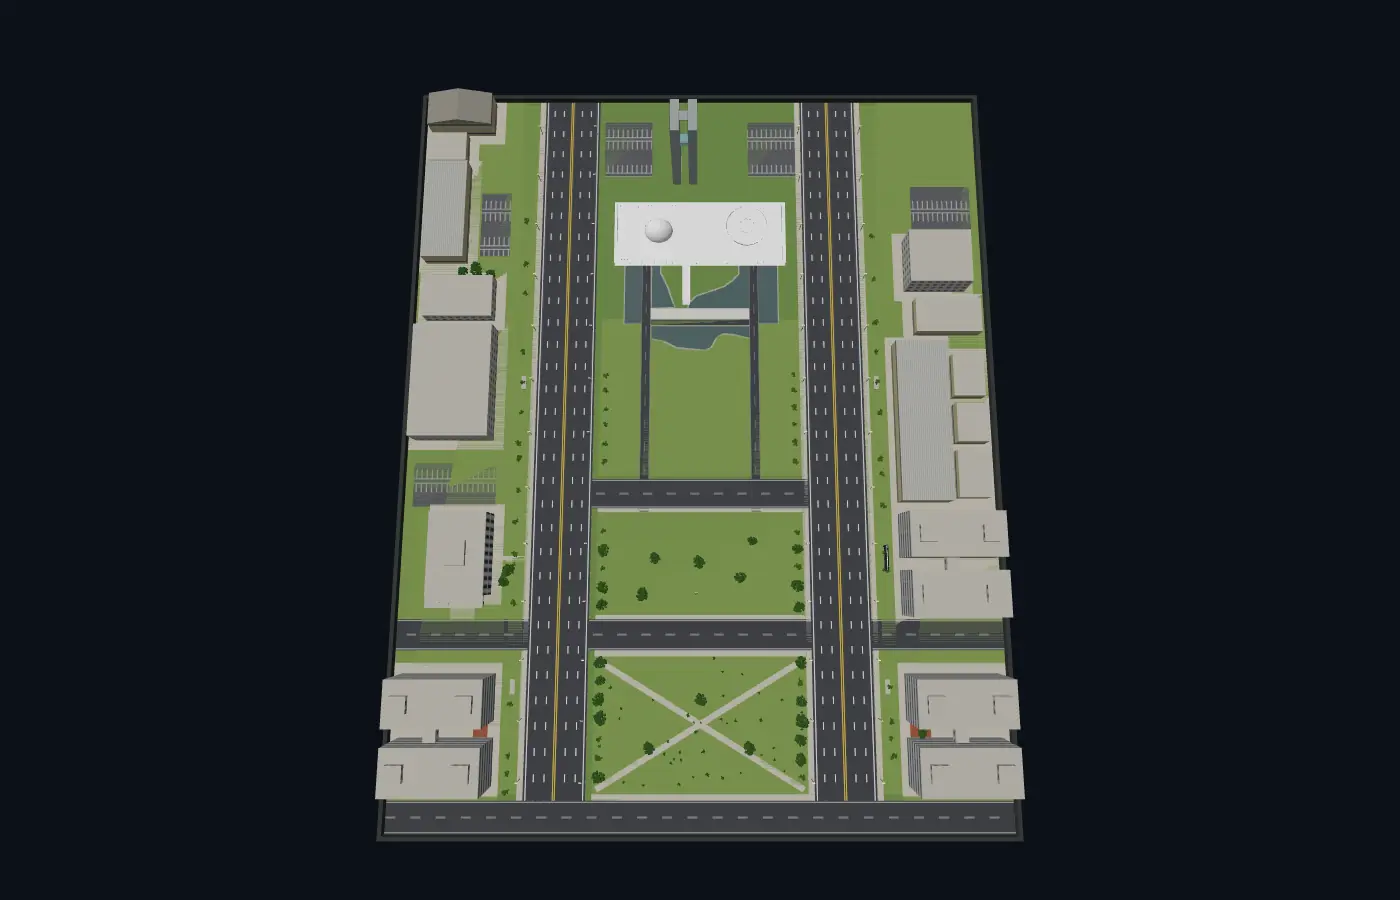
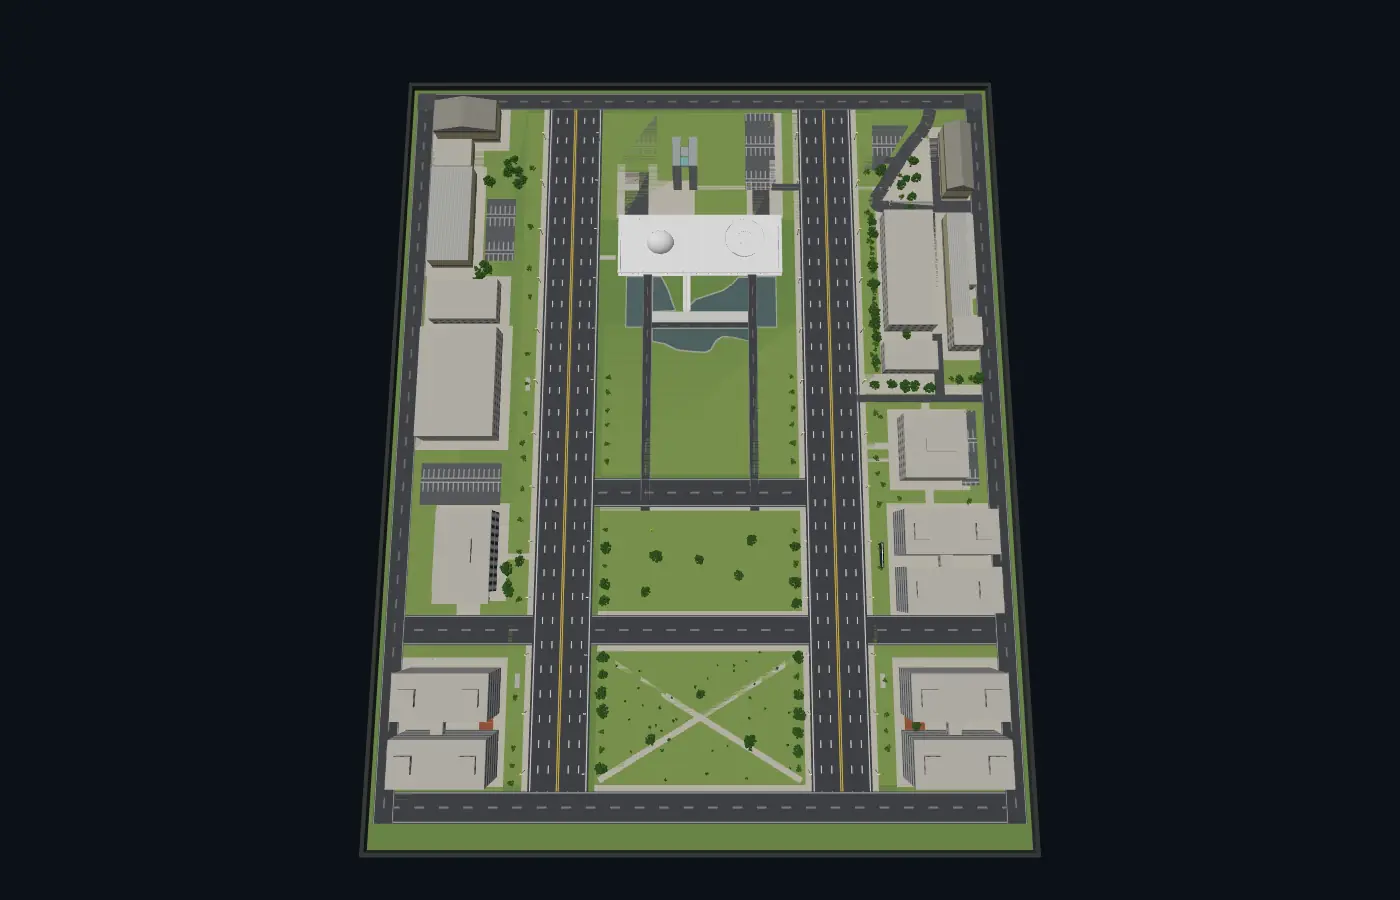
Esplanada: rua perimetral em volta do mapa ligando as ruas sem saída
Claude-Session: https://claude.ai/code/session_01RT3XWXPgV7JXuhkqbgCwHv

Changed region(s): [[0.2457, 0.0933, 0.7679, 0.9644]]

diff --git a/src/game/esplanada.ts b/src/game/esplanada.ts
@@ -9,17 +9,24 @@ import { HEIGHT, makeTrees, type Species, type TreeSpec } from './trees';
 // Eixo no sentido norte (+z): o Congresso fica no fim do eixo, de frente para o sul. Duas avenidas (Eixo Monumental) ladeiam o gramado
 // central e, fora delas, as duas fileiras de ministérios. Sem carros: só aparecem os chamados na Garagem.
 
-const HX = 150; // meio-largura do mapa (m)
-const HZ = 190; // meio-comprimento
-const AV_L: Rect = { x0: -85, x1: -55, z0: -175, z1: HZ }; // avenida oeste (3 faixas para cada lado)
-const AV_R: Rect = { x0: 55, x1: 85, z0: -175, z1: HZ };
-const PERIM_S: Rect = { x0: -HX, x1: HX, z0: -HZ, z1: -175 }; // rua do fim sul, liga as duas avenidas
+const IX = 150; // meio-largura da área interna (m); em volta dela há a rua perimetral de 10 m e 2 m de grama até o muro
+const IZ = 190; // meio-comprimento da área interna
+const HX = 162; // meio-largura do mapa (até o muro)
+const HZ = 202; // meio-comprimento do mapa
+const RING_W = 10; // largura da rua perimetral
+const AV_L: Rect = { x0: -85, x1: -55, z0: -175, z1: IZ }; // avenida oeste (3 faixas para cada lado)
+const AV_R: Rect = { x0: 55, x1: 85, z0: -175, z1: IZ };
+const PERIM_S: Rect = { x0: -IX - RING_W, x1: IX + RING_W, z0: -IZ, z1: -175 }; // rua do fim sul, liga as duas avenidas
 const CROSS: Rect[] = [
   { x0: -55, x1: 55, z0: -105, z1: -90 }, // 1ª transversal (cruza o gramado)
   { x0: -55, x1: 55, z0: -35, z1: -20 }, // 2ª transversal
 ];
 // ruas que saem das avenidas entre os ministérios (alinhadas com a 1ª transversal)
-const OUTER: Rect[] = [{ x0: -HX, x1: -85, z0: -105, z1: -90 }, { x0: 85, x1: HX, z0: -105, z1: -90 }];
+const OUTER: Rect[] = [{ x0: -IX, x1: -85, z0: -105, z1: -90 }, { x0: 85, x1: IX, z0: -105, z1: -90 }];
+// rua perimetral: leste, oeste e norte (o sul é a PERIM_S); liga as ruas que antes acabavam no muro
+const RING_E: Rect = { x0: IX, x1: IX + RING_W, z0: -IZ, z1: IZ };
+const RING_W_: Rect = { x0: -IX - RING_W, x1: -IX, z0: -IZ, z1: IZ };
+const RING_N: Rect = { x0: -IX, x1: IX, z0: IZ, z1: IZ + RING_W };
 // estacionamentos: margens, e dois estreitos ao lado das torres do Congresso
 const lots: Rect[] = [
   { x0: 104, x1: 146, z0: -34, z1: -12 }, { x0: 102, x1: 118, z0: 100, z1: 136 },
@@ -239,13 +246,13 @@ export function createEsplanada(): THREE.Group {
   ];
   for (const r of lawns) { addFlat(mats.lawn, flatGeom(r.x0, r.x1, r.z0, r.z1, 0.015, 12)); PARKS.push(r); }
   // faixas de gramado ao lado das avenidas (lado de fora)
-  for (const r of [{ x0: -97, x1: -88, z0: -172, z1: 188 }, { x0: 88, x1: 97, z0: -172, z1: 188 }, { x0: 97, x1: HX - 4, z0: -90, z1: -36 }]) { addFlat(mats.lawn, flatGeom(r.x0, r.x1, r.z0, r.z1, 0.015, 12)); PARKS.push(r); }
+  for (const r of [{ x0: -97, x1: -88, z0: -172, z1: 188 }, { x0: 88, x1: 97, z0: -172, z1: 188 }, { x0: 97, x1: IX - 4, z0: -90, z1: -36 }]) { addFlat(mats.lawn, flatGeom(r.x0, r.x1, r.z0, r.z1, 0.015, 12)); PARKS.push(r); }
   // ladrilho dos ministérios: o pátio (concreto) das duas margens
-  for (const r of [{ x0: -HX, x1: -97, z0: -175, z1: HZ }, { x0: 97, x1: HX, z0: -175, z1: HZ }]) addFlat(mats.lawn, flatGeom(r.x0, r.x1, r.z0, r.z1, 0.015, 12)); // margens: gramado, com pátio de concreto em volta de cada prédio
+  for (const r of [{ x0: -IX, x1: -97, z0: -175, z1: IZ }, { x0: 97, x1: IX, z0: -175, z1: IZ }]) addFlat(mats.lawn, flatGeom(r.x0, r.x1, r.z0, r.z1, 0.015, 12)); // margens: gramado, com pátio de concreto em volta de cada prédio
   // calçadas ao longo das avenidas (3 m) e em volta dos gramados (caminhos de 3 m)
   const walk: Rect[] = [
-    { x0: -88, x1: -85, z0: -175, z1: HZ }, { x0: -55, x1: -52, z0: -175, z1: HZ },
-    { x0: 55, x1: 58, z0: -175, z1: HZ }, { x0: 85, x1: 88, z0: -175, z1: HZ },
+    { x0: -88, x1: -85, z0: -175, z1: IZ }, { x0: -55, x1: -52, z0: -175, z1: IZ },
+    { x0: 55, x1: 58, z0: -175, z1: IZ }, { x0: 85, x1: 88, z0: -175, z1: IZ },
     // caminhos laterais do gramado central e do gramado do meio
         { x0: -52, x1: 52, z0: -175, z1: -172 }, { x0: -52, x1: 52, z0: -108, z1: -105 },
     { x0: -52, x1: 52, z0: -90, z1: -88 }, { x0: -52, x1: 52, z0: -37, z1: -35 },
@@ -318,6 +325,12 @@ export function createEsplanada(): THREE.Group {
   for (const r of [AV_L, AV_R]) { addFlat(mats.avenue, flatGeom(r.x0, r.x1, r.z0, r.z1, 0.05, 12, 'road-z')); ROADS.push(r); }
   addFlat(mats.street, flatGeom(PERIM_S.x0, PERIM_S.x1, PERIM_S.z0, PERIM_S.z1, 0.05, 12, 'road-x'));
   ROADS.push(PERIM_S);
+  // rua perimetral em volta da cidade (liga as ruas que antes acabavam no muro)
+  addFlat(mats.street, flatGeom(RING_E.x0, RING_E.x1, RING_E.z0, RING_E.z1, 0.05, 12, 'road-z'));
+  addFlat(mats.street, flatGeom(RING_W_.x0, RING_W_.x1, RING_W_.z0, RING_W_.z1, 0.05, 12, 'road-z'));
+  addFlat(mats.street, flatGeom(RING_N.x0, RING_N.x1, RING_N.z0, RING_N.z1, 0.05, 12, 'road-x'));
+  for (const sx of [-1, 1]) addFlat(mats.asp, flatGeom(sx > 0 ? IX : -IX - RING_W, sx > 0 ? IX + RING_W : -IX, IZ, IZ + RING_W, 0.05, 12)); // cantos
+  ROADS.push(RING_E, RING_W_, RING_N, { x0: -IX - RING_W, x1: -IX, z0: IZ, z1: IZ + RING_W }, { x0: IX, x1: IX + RING_W, z0: IZ, z1: IZ + RING_W });
   for (const r of [...CROSS, ...OUTER]) { addFlat(mats.street, flatGeom(r.x0, r.x1, r.z0, r.z1, 0.05, 12, 'road-x')); ROADS.push(r); }
   // pátios de terracota entre os ministérios de cada par (como na maquete)
   for (const r of [{ x0: -112, x1: -102, z0: -146, z1: -138 }, { x0: 103, x1: 110, z0: -146, z1: -138 }]) addFlat(mats.terra, flatGeom(r.x0, r.x1, r.z0, r.z1, 0.055, 4));
@@ -478,7 +491,7 @@ export function createEsplanada(): THREE.Group {
     addFlat(mats.asp, g);
     return [...L, ...R.reverse()];
   };
-  const loop = ribbon(ph([[782, 25], [690, 170], [610, 320], [552, 440], [515, 510], [497, 548], [503, 580], [532, 594], [600, 594], [850, 594], [1079, 594]]), 7, 0.071);
+  const loop = ribbon([[-130.5, IZ + 0.5], ...ph([[782, 25], [690, 170], [610, 320], [552, 440], [515, 510], [497, 548], [503, 580], [532, 594], [600, 594], [850, 594], [1079, 594]])], 7, 0.071);
   STREETS_E.push(loop);
   // Entrada e saída de carros do estacionamento diagonal: um acesso curto ligando a lateral dele (lado direito, perto da praça) à rua em diagonal
   const driveway = ph([[560, 246], [650, 238], [650, 292], [552, 288]]);
@@ -504,9 +517,9 @@ export function createEsplanada(): THREE.Group {
 
   // pátio de concreto em volta de cada prédio das margens
   for (const b of B) {
-    const x0 = Math.max(b.x0 - 5, b.x0 < 0 ? -HX : 97);
-    const x1 = Math.min(b.x1 + 5, b.x1 < 0 ? -97 : HX);
-    addFlat(mats.concrete, flatGeom(x0, x1, Math.max(b.z0 - 5, -175), Math.min(b.z1 + 5, HZ), 0.03, 4));
+    const x0 = Math.max(b.x0 - 5, b.x0 < 0 ? -IX : 97);
+    const x1 = Math.min(b.x1 + 5, b.x1 < 0 ? -97 : IX);
+    addFlat(mats.concrete, flatGeom(x0, x1, Math.max(b.z0 - 5, -175), Math.min(b.z1 + 5, IZ), 0.03, 4));
   }
   for (const [m, list] of flats) {
     const mesh = new THREE.Mesh(mergeGeometries(list, false)!, m);
@@ -656,11 +669,14 @@ export function createEsplanada(): THREE.Group {
   // ---- nomes dos lugares (barra de cima do jogo, mapa grande) ----
   PLACES.push(
     { name: 'LAGO DO CONGRESSO', rect: { x0: -42, x1: 42, z0: 48, z1: 92 } },
-    { name: 'CONGRESSO NACIONAL', rect: { x0: -60, x1: 60, z0: 44, z1: HZ } },
-    { name: 'EIXO MONUMENTAL OESTE', rect: { x0: -88, x1: -52, z0: -HZ, z1: HZ } },
-    { name: 'EIXO MONUMENTAL LESTE', rect: { x0: 52, x1: 88, z0: -HZ, z1: HZ } },
-    { name: 'MINISTÉRIOS (OESTE)', rect: { x0: -HX, x1: -88, z0: -HZ, z1: HZ } },
-    { name: 'MINISTÉRIOS (LESTE)', rect: { x0: 88, x1: HX, z0: -HZ, z1: HZ } },
+    { name: 'CONGRESSO NACIONAL', rect: { x0: -60, x1: 60, z0: 44, z1: IZ } },
+    { name: 'EIXO MONUMENTAL OESTE', rect: { x0: -88, x1: -52, z0: -IZ, z1: IZ } },
+    { name: 'EIXO MONUMENTAL LESTE', rect: { x0: 52, x1: 88, z0: -IZ, z1: IZ } },
+    { name: 'MINISTÉRIOS (OESTE)', rect: { x0: -IX, x1: -88, z0: -IZ, z1: IZ } },
+    { name: 'AV. PERIMETRAL', rect: { x0: -HX, x1: -IX, z0: -HZ, z1: HZ } },
+    { name: 'AV. PERIMETRAL', rect: { x0: IX, x1: HX, z0: -HZ, z1: HZ } },
+    { name: 'AV. PERIMETRAL', rect: { x0: -HX, x1: HX, z0: IZ, z1: HZ } },
+    { name: 'MINISTÉRIOS (LESTE)', rect: { x0: 88, x1: IX, z0: -IZ, z1: IZ } },
   );
 
   // ---- Congresso Nacional: o modelo do usuário (laje com as duas cúpulas, rampa e as duas torres) ----

diff --git a/src/game/map.ts b/src/game/map.ts
@@ -28,7 +28,7 @@ export function saveMapChoice(id: MapId): void {
 }
 
 /** Quadras e prédios da cidade (metros a partir do centro). */
-export const CITY = MAP_ID === 'esplanada' ? { halfX: 150, halfZ: 190 } : { halfX: 110, halfZ: 84 };
+export const CITY = MAP_ID === 'esplanada' ? { halfX: 162, halfZ: 202 } : { halfX: 110, halfZ: 84 };
 /** Largura da rua que contorna a cidade (a Esplanada não tem: o limite é o muro). */
 export const RING = MAP_ID === 'esplanada' ? 0 : 12;
 /** Cor do chão no minimapa. */

diff --git a/CLAUDE.md b/CLAUDE.md
@@ -252,3 +252,4 @@ Multiplayer no navegador. Mapa: cidade inspirada na Av. Paulista (SP), com o MAS
 - Esplanada, retoques por captura marcada pelo usuário (cinza = asfalto, verde = grama): `ASPH`/`GRASS` em esplanada.ts, coordenadas medidas na captura de cima (câmera `0,210,119 → 0,0,120`, 3,71 px/m; `CW(cx, cy)` converte; o recorte do usuário começava em (697,173) da captura 1400x900). Asfalto por cima de tudo (y 0,07): via larga atrás do Congresso (x −47..−25, z 128..145) com faixa até a avenida, rua da margem alargada, preenchimento entre a rua em diagonal e a rua curva; grama (y 0,075): faixa entre a via e a laje e ao lado da rua em diagonal.
 - Esplanada, interpretação (não só pintar) da captura marcada: ESTACIONAMENTO ESQUERDO (x −42..−25, z 141..188): entrada de pedestres pela calçada da esquerda (walk 6) e entrada de carros pela direita, por uma faixa de asfalto vinda da avenida (x −55..−40, z 141..145); cancela na via. ESTACIONAMENTO DIREITO (diagonal): entrada/saída de carros por um acesso curto na lateral perto da praça, ligado à rua em diagonal (`driveway`). RUA DA PRAÇA: a rua em diagonal faz uma curva suave e segue reta até a margem, desenhada como faixa de 7 m em volta de uma linha central suave (`ribbon`, CatmullRom), não mais como polígonos. Os polígonos antigos de diagonal/curva e a grama ao lado da diagonal foram removidos.
 - Esplanada: sem calçada cruzando a avenida (o passeio de concreto agora vai só de x −101,7 a −85); o estacionamento diagonal da direita não tem mais o corredor/faixas de asfalto embaixo dele (só o acesso lateral perto da praça).
+- Esplanada, rua perimetral: o mapa cresceu de 300x380 para 324x404 m (`HX` 162, `HZ` 202; `CITY` em map.ts idem). A área interna continua `IX` 150 x `IZ` 190; em volta há uma rua de 10 m (`RING_E`, `RING_W_`, `RING_N`; o sul é a `PERIM_S`, agora até x ±160) e 2 m de grama até o muro. Todas as ruas que acabavam no muro (OUTER, rua horizontal e rua da praça) encostam nela; a rua em diagonal da margem esquerda ganhou um trecho até a rua do norte. Nova foto do carregamento (`public/loading/esplanada.webp`).
